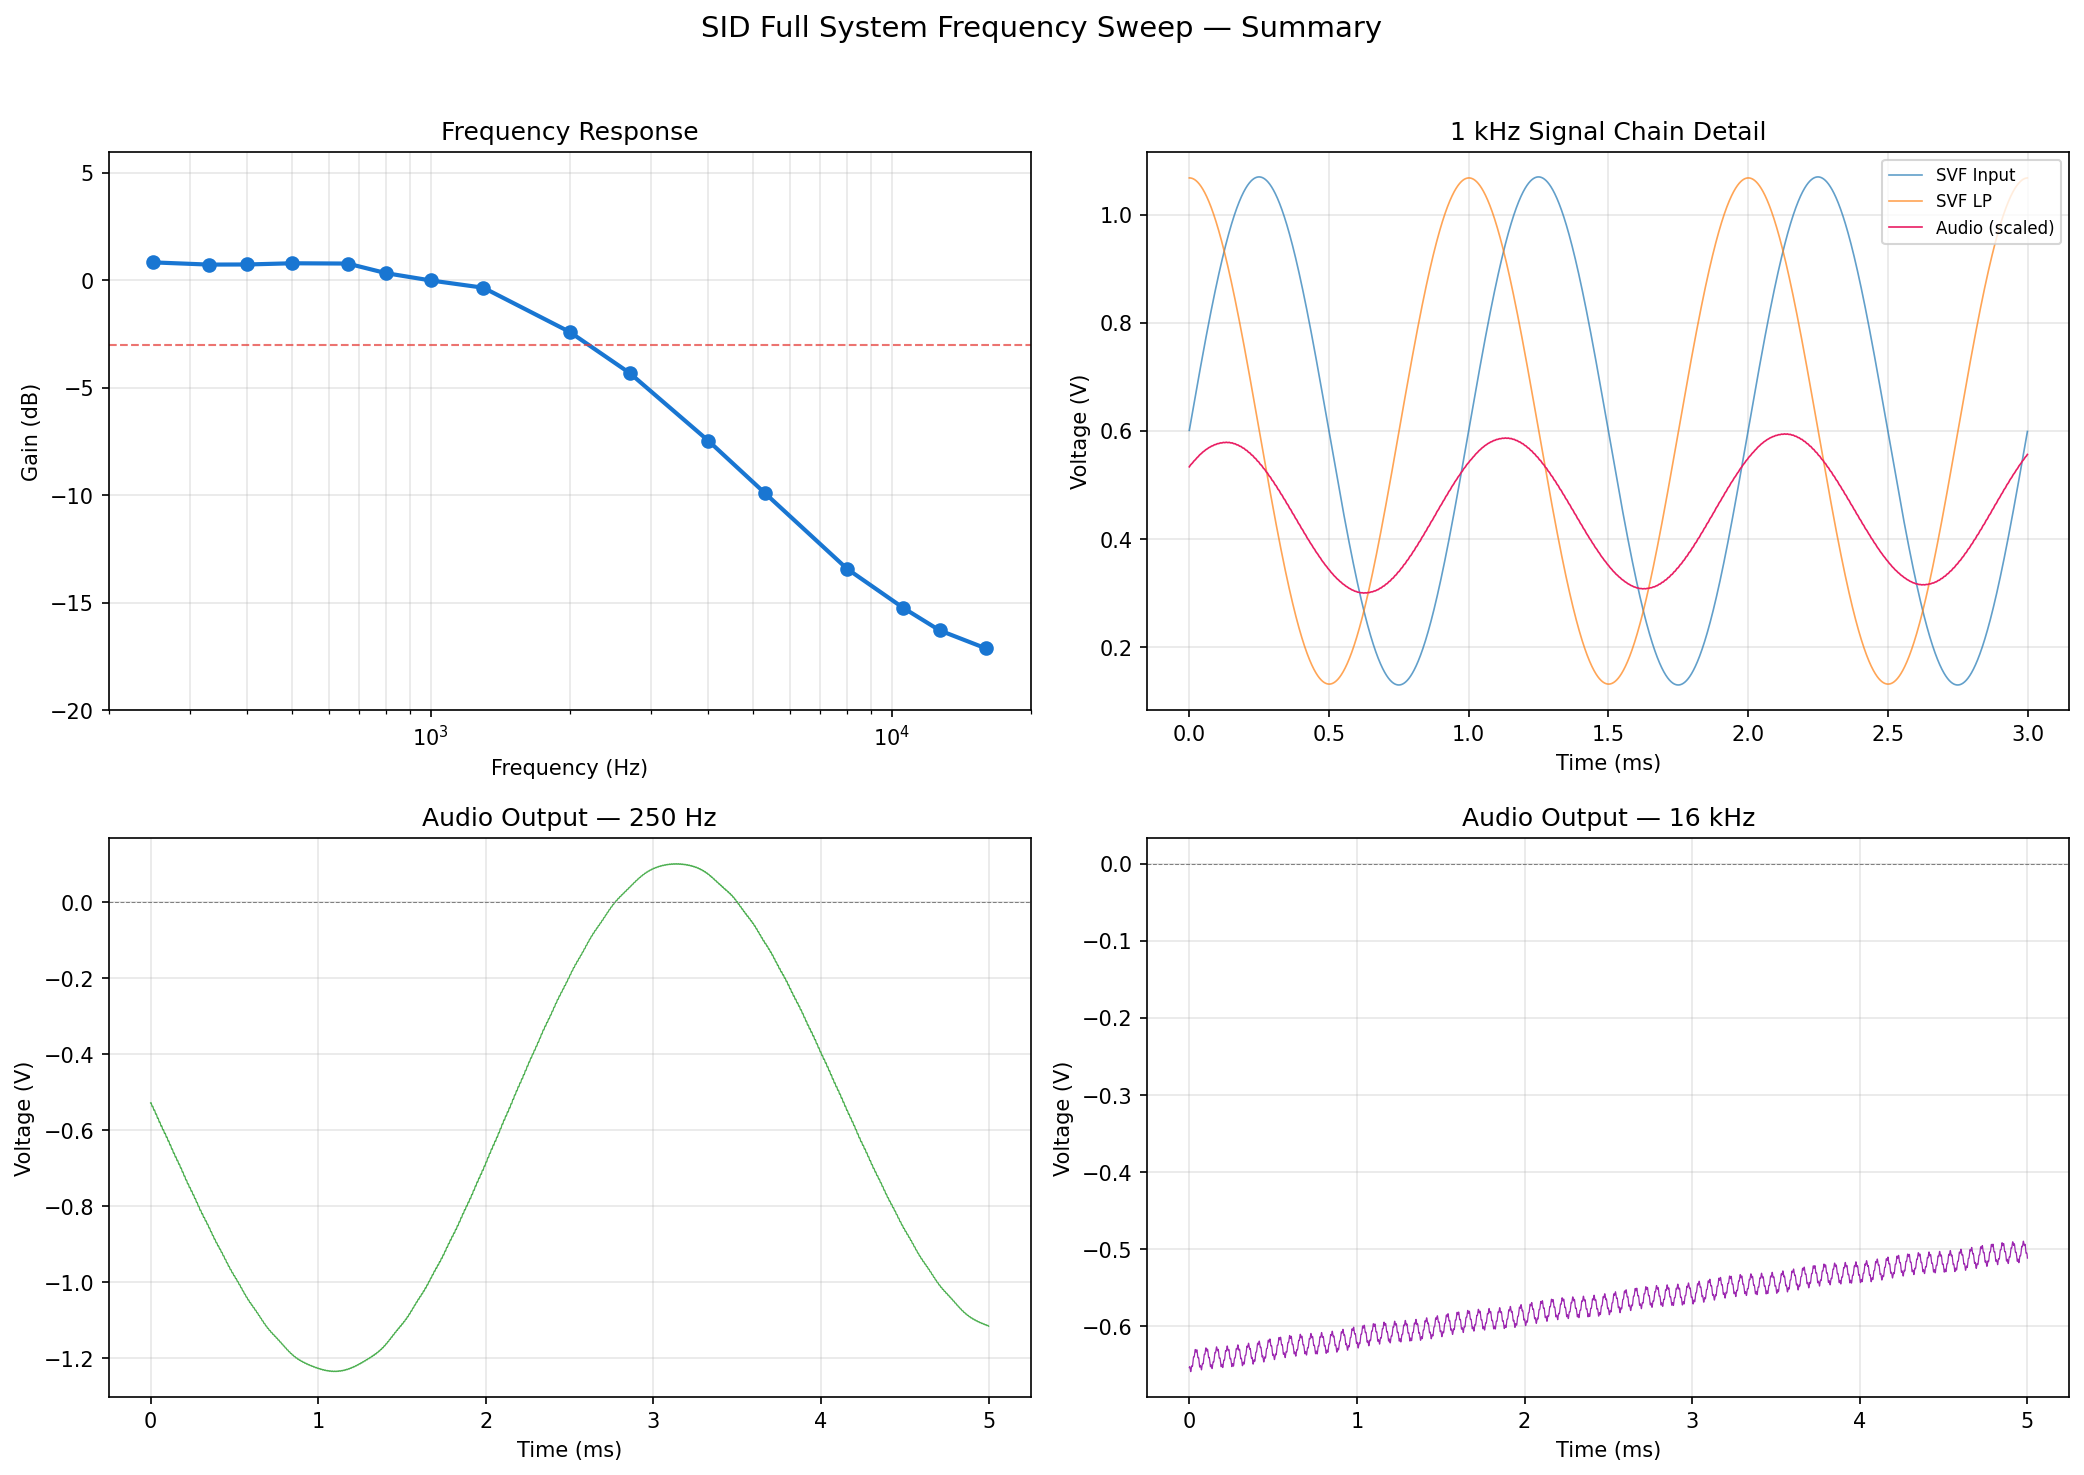
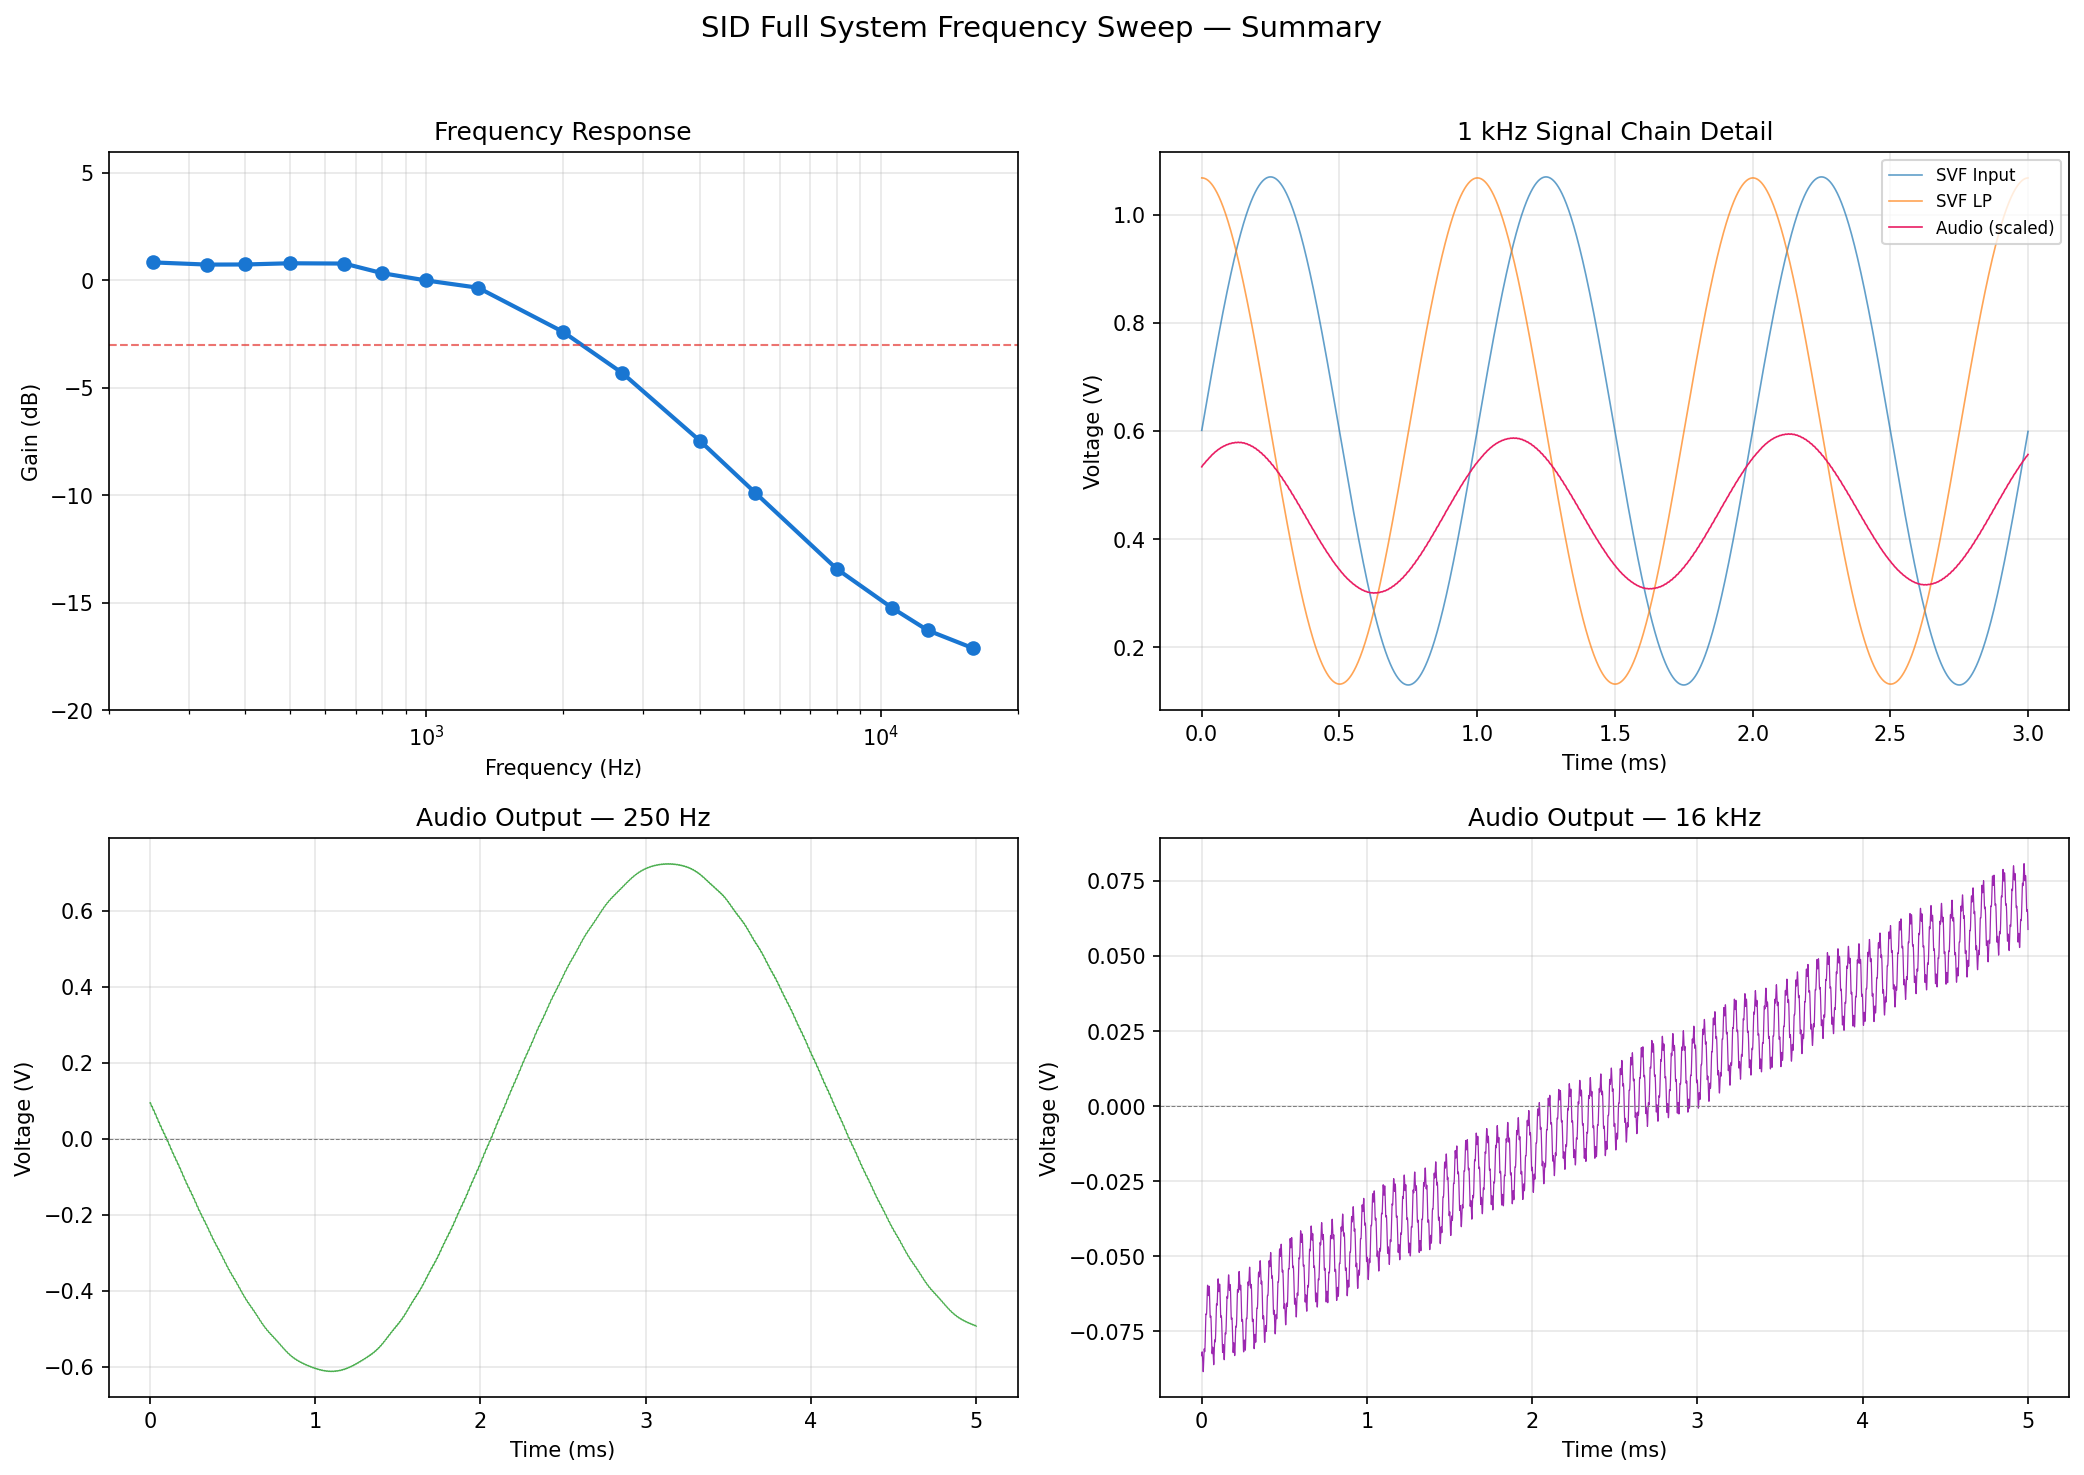
Fix waveform plots: subtract DC offset from AC-coupled audio output
The 1µF AC coupling cap (τ=10ms) doesn't fully settle in 10ms sim time.
Subtract DC mean to show steady-state AC-coupled output centered at 0V.

diff --git a/analog_sim/full_sweep/plot_sweep.py b/analog_sim/full_sweep/plot_sweep.py
@@ -116,6 +116,8 @@ def plot_waveform_grid(segments, outpath):
                  fontsize=14, y=0.98)
 
     # Compute global y-range across all 16 segments for uniform scaling
+    # Subtract DC mean from audio_out (AC coupling cap doesn't fully settle
+    # in 10ms sim; real circuit has pre-charged cap in steady state)
     y_min, y_max = 0.0, 0.0
     for i in range(len(FREQS)):
         if i < len(segments) and len(segments[i]) > 0:
@@ -124,8 +126,9 @@ def plot_waveform_grid(segments, outpath):
             mask = t >= 5e-3
             if np.any(mask):
                 audio_out = data[mask, COL_AUDIO]
-                y_min = min(y_min, audio_out.min())
-                y_max = max(y_max, audio_out.max())
+                ac = audio_out - audio_out.mean()
+                y_min = min(y_min, ac.min())
+                y_max = max(y_max, ac.max())
     y_margin = (y_max - y_min) * 0.05 if y_max > y_min else 0.1
     y_min -= y_margin
     y_max += y_margin
@@ -139,11 +142,12 @@ def plot_waveform_grid(segments, outpath):
             t = data[:, COL_TIME]
             audio_out = data[:, COL_AUDIO]
 
-            # Last 5ms
+            # Last 5ms, DC-subtracted
             mask = t >= 5e-3
             if np.any(mask):
                 t_ms = (t[mask] - 5e-3) * 1e3
-                ax.plot(t_ms, audio_out[mask], color="#E91E63", linewidth=0.5)
+                ac = audio_out[mask] - audio_out[mask].mean()
+                ax.plot(t_ms, ac, color="#E91E63", linewidth=0.5)
 
         ax.set_title(f"{freq} Hz", fontsize=10, fontweight="bold")
         ax.set_xlabel("ms", fontsize=7)
@@ -255,7 +259,7 @@ def plot_summary(segments, freqs, gains, outpath):
     ax.legend(fontsize=8)
     ax.grid(True, alpha=0.3)
 
-    # (1,0) 250 Hz waveform
+    # (1,0) 250 Hz waveform (DC-subtracted)
     ax = axes[1][0]
     if len(segments) > 0 and len(segments[0]) > 0:
         data = segments[0]
@@ -263,14 +267,15 @@ def plot_summary(segments, freqs, gains, outpath):
         mask = t >= 5e-3
         if np.any(mask):
             t_ms = (t[mask] - 5e-3) * 1e3
-            ax.plot(t_ms, data[mask, COL_AUDIO], color="#4CAF50", linewidth=0.6)
+            ac = data[mask, COL_AUDIO] - data[mask, COL_AUDIO].mean()
+            ax.plot(t_ms, ac, color="#4CAF50", linewidth=0.6)
     ax.set_xlabel("Time (ms)")
     ax.set_ylabel("Voltage (V)")
     ax.set_title("Audio Output \u2014 250 Hz")
     ax.axhline(0, color="gray", linewidth=0.5, linestyle="--")
     ax.grid(True, alpha=0.3)
 
-    # (1,1) 16000 Hz waveform
+    # (1,1) 16000 Hz waveform (DC-subtracted)
     ax = axes[1][1]
     if len(segments) > 15 and len(segments[15]) > 0:
         data = segments[15]
@@ -278,7 +283,8 @@ def plot_summary(segments, freqs, gains, outpath):
         mask = t >= 5e-3
         if np.any(mask):
             t_ms = (t[mask] - 5e-3) * 1e3
-            ax.plot(t_ms, data[mask, COL_AUDIO], color="#9C27B0", linewidth=0.6)
+            ac = data[mask, COL_AUDIO] - data[mask, COL_AUDIO].mean()
+            ax.plot(t_ms, ac, color="#9C27B0", linewidth=0.6)
     ax.set_xlabel("Time (ms)")
     ax.set_ylabel("Voltage (V)")
     ax.set_title("Audio Output \u2014 16 kHz")
